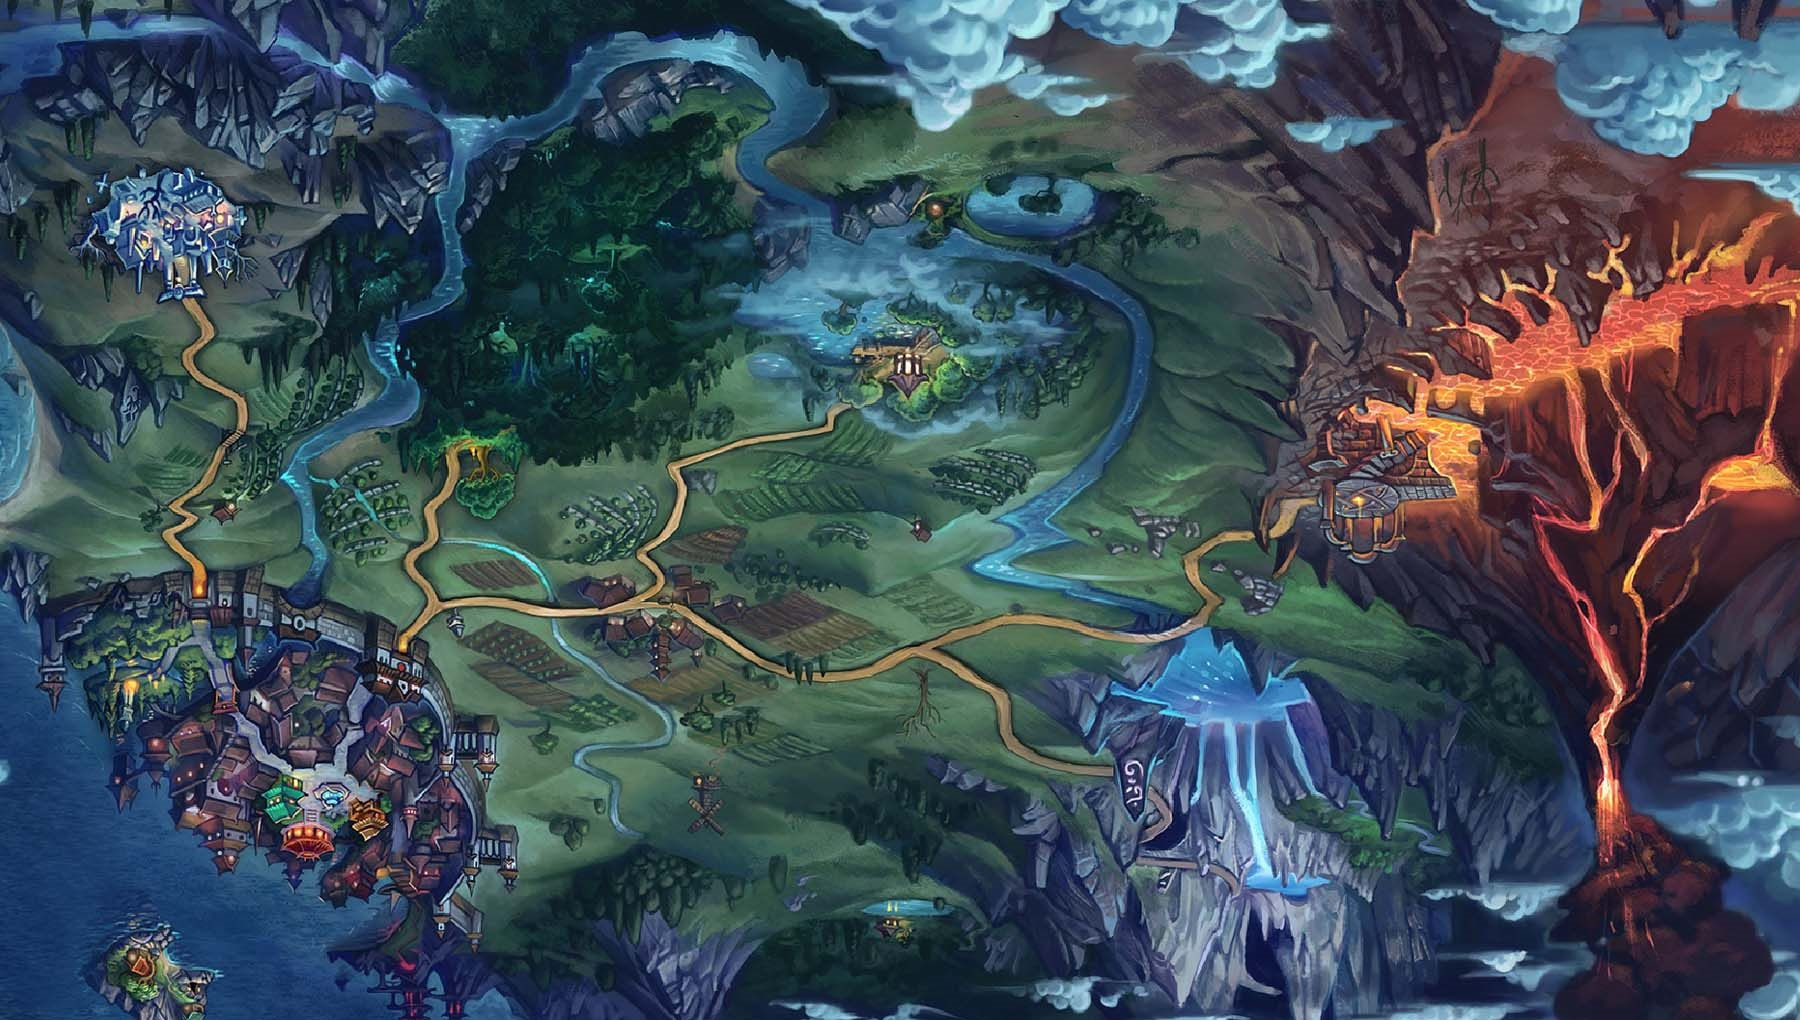
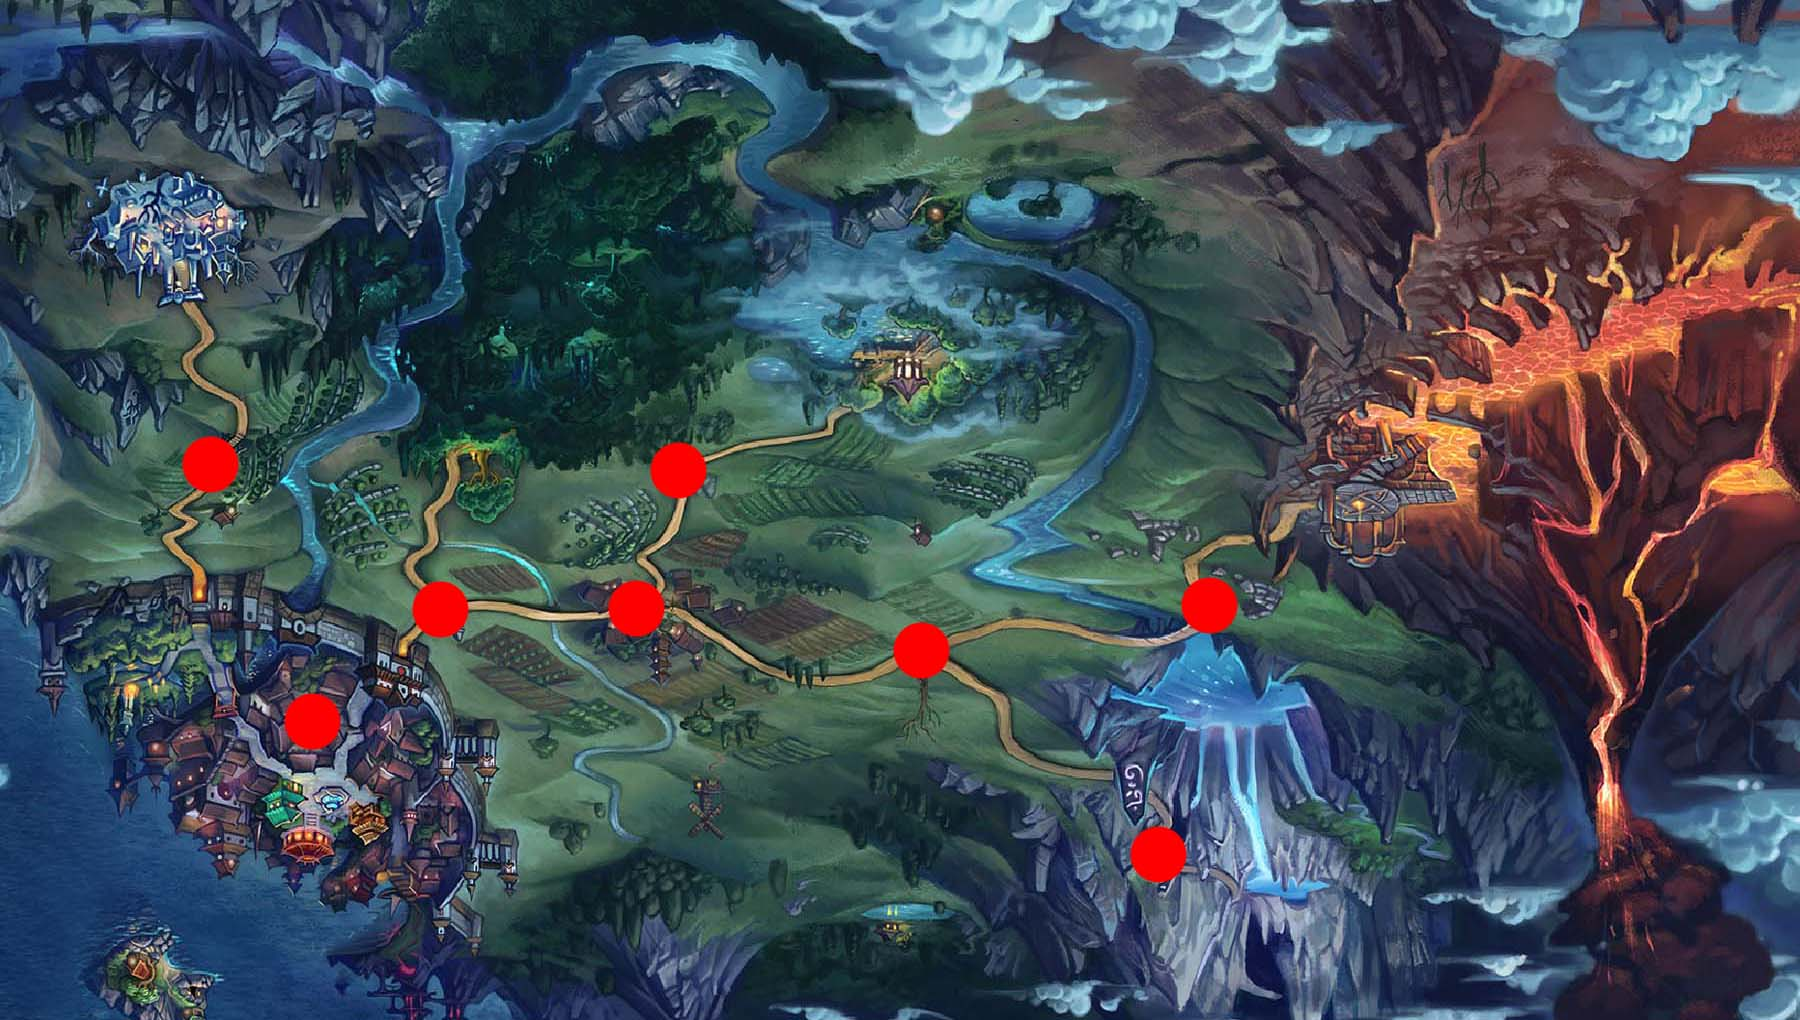
update

diff --git a/game.min.js b/game.min.js
@@ -3146,7 +3146,7 @@ ui_card_item_4:"res/menu/ui_card_item_4.png",ui_btn_green_card:"res/menu/ui_btn_
 ui_btn_green_main:"res/menu/ui_btn_green_main.png",ui_btn_green_main_select:"res/menu/ui_btn_green_main_select.png",ui_btn_cp_01:"res/menu/ui_btn_cp_01.png",ui_btn_cp_02:"res/menu/ui_btn_cp_02.png",ui_btn_cp_03:"res/menu/ui_btn_cp_03.png",ui_btn_cp_04:"res/menu/ui_btn_cp_04.png",font:"Hamston.ttf",effect_start:"res/effect/stars.png",effect_light:"res/effect/light.svg"},config={font_size_normal:60,font_size_small:40,font_size_tiny:30,font_size_tiny_small:15,scale_default:0.65,scale_zoom:0.85,scale_big:1,
 card_coin_common:1E3,card_coin_ancient:5E3,card_coin_legendary:15E3,card_common:1,card_ancient:2,card_legendary:4,size_width:0,size_height:0,font:"Hamston",z_index_30:30,z_index_20:20,z_index_10:10,scene_home:0,scene_get_cards:1,scene_multi_player:2,scene_campaign:3,sprite_defaul:"0",sprite_click:"1",popup_default:222},lb={choose_your_hero:"CHOOSE YOUR HERO",select:"Select",home:"HOME",get_cards:"GET CARDS!",multiplayer:"MULTIPLAYER",campaign:"CAMPAIGN",boosters:"BOOSTERS",shop:"SHOP",profile:"PROFILE",
 deck_edit:"DECK EDIT",leaderboard:"LEADERBOARD",level:"LEVEL",ok:"OK",card_common:"COMMON",card_ancient:"ANCIENT",card_legendary:"LEGENDARY",card_common_des:"GET 1 CARD \n AT LEAST \n 1 COMMON CARD",card_ancient_des:"GET 2 CARD \n AT LEAST \n 1 COMMON CARD",card_legendary_des:"GET 4 CARD \n AT LEAST \n 1 RATE OR EPIC CARD",share:"SHARE",continue:"CONTINUE",game_setting:"GAME MENU",sound_effect:"SOUND EFFECTS",music:"MUSIC",setting:"SETTING",connect:"CONNECT",infor:"INFOR",privacy_policy:"PRIVACY POLICY",
-term_of_use:"TERM OF USE",coming_soon:"COMING SOON",wallet_address:"WALLET ADDRESS",wallet_address_value:"000000000000000",coin_info:"BNB VALUE",coin_info_value:"14 BNB",logout:"LOGOUT",change:"CHANGE",pillace:"PILLACE"},champions=[];champions.push({src:res.cp_01,src_select:res.cp_01_s,name:"HUMAN",icon:res.ui_btn_cp_01});champions.push({src:res.cp_02,src_select:res.cp_02_s,name:"ELF",icon:res.ui_btn_cp_02});champions.push({src:res.cp_03,src_select:res.cp_03_s,name:"ORC",icon:res.ui_btn_cp_03});
+term_of_use:"TERM OF USE",coming_soon:"COMING SOON",wallet_address:"WALLET ADDRESS",wallet_address_value:"000000000000000",coin_info:"BNB VALUE",coin_info_value:"14 BNB",logout:"LOGOUT",fee:"FEE",pillace:"PILLACE"},champions=[];champions.push({src:res.cp_01,src_select:res.cp_01_s,name:"HUMAN",icon:res.ui_btn_cp_01});champions.push({src:res.cp_02,src_select:res.cp_02_s,name:"ELF",icon:res.ui_btn_cp_02});champions.push({src:res.cp_03,src_select:res.cp_03_s,name:"ORC",icon:res.ui_btn_cp_03});
 champions.push({src:res.cp_04,src_select:res.cp_04_s,name:"UNDEAD",icon:res.ui_btn_cp_04});var user={index:-1,positionX:0,positionY:0,coin:1E15,level:20,buyCoin:0,buyCard:0},g_resources=[],i;for(i in res)g_resources.push(res[i]);var unit={random:function(a,b){return Math.round(Math.random()*(b-a)+a)}},_MainLayout;var MainScene=cc.Scene.extend({onEnter:function(){this._super()},createPopup:function(){var a=new cc.Sprite(res.ui_popup);a.setPosition(cc.p(config.size_width/2,2*config.size_height));var b=new cc.LabelTTF(lb.game_setting,config.font);b.setAnchorPoint(cc.p(0.5,0));b.setFontSize(config.font_size_small);b.setPosition(cc.p(a._getWidth()/2,a._getHeight()-70));a.addChild(b);b=new ccui.Button;b.setAnchorPoint(cc.p(0.5,0));b.setPosition(cc.p(a._getWidth()-25,a._getHeight()-92));b.loadTextures(res.ui_btn_close);
 b.addClickEventListener(this.funcPopupCloseClick);a.addChild(b);var b=new cc.Sprite,c=new cc.LabelTTF.create(lb.music,config.font);c.setFontSize(config.font_size_tiny);c.setAnchorPoint(cc.p(0.5,-1));var d=new cc.LabelTTF.create(lb.sound_effect,config.font);d.setFontSize(config.font_size_tiny);d.setAnchorPoint(cc.p(0.5,-1));var e=this.createPopupSldier(a._getWidth()/2-50,a._getHeight()/2,this.funcPopupSliderAudio),f=this.createPopupSldier(a._getWidth()/2-50,a._getHeight()/2-100,this.funcPopupSliderMusic);
 d.setPosition(cc.p(e._getWidth()/2,0));c.setPosition(cc.p(f._getWidth()/2,0));e.addChild(d);f.addChild(c);b.addChild(f);b.addChild(e);var g=function(b){var c=parseInt(b.getName());for(i in s)s[i].loadTextures(res.ui_btn_brown,res.ui_btn_brown_select);b.loadTextures(res.ui_btn_orange_popup,res.ui_btn_orange_popup_select);a.removeChildByTag(config.popup_default);a.addChild(v[c])},c=new this.createPopupBtnMain(40,410,g,lb.setting,0),d=new this.createPopupBtn(40,410-1*(c._getHeight()+20),g,lb.connect,
@@ -3185,14 +3185,14 @@ funcMenuHomeClick:function(){var a=new HomeScene;cc.director.runScene(new cc.Tra
 a.setDirection(ccui.ScrollView.DIR_HORIZONTAL);for(var b=function(a){var b=parseInt(a.getName()),c=parseInt(a.getTag());b==config.sprite_defaul?(a.setName(config.sprite_click),a.setScale(config.scale_zoom),a.loadTextures(champions[c].src_select)):(a.setScale(config.scale_default),a.setName(config.sprite_defaul),a.loadTextures(champions[c].src))},c=0;c<user.buyCard;c++){var d=new ccui.Button,e=unit.random(0,3);d.setName(config.sprite_defaul);d.setTag(e);d.loadTextures(champions[e].src);d.addClickEventListener(b);
 d.setScale(config.scale_default);e=new cc.LabelTTF(champions[e].name,config.font);e.setName("NAME");e.setFontSize(config.font_size_normal);e.setPosition(cc.p(d._getWidth()/2,-50));d.addChild(e);a.addChild(d)}a.setPosition(cc.p(config.size_width/2,config.size_height/2));a.setAnchorPoint(cc.p(0.5,0.5));a.setContentSize(cc.size(config.size_width/4*user.buyCard,config.size_height));this.addChild(a);a=this.createButton(config.size_width/2,20,res.ui_btn_green_main,res.ui_btn_green_main_select,lb.continue,
 config.font_size_small,this.funcMenuContinueClick);this.addChild(a);return!0},createButton:function(a,b,c,d,e,f,g){var h=new ccui.Button;h.setAnchorPoint(cc.p(0.5,0));h.setPosition(cc.p(a,b));h.loadTextures(c,d);h.setTitleFontName(config.font);h.setTitleFontSize(f);h.setTitleText(e);h.addClickEventListener(g);return h},funcMenuContinueClick:function(){var a=new GetCardsScene;cc.director.runScene(new cc.TransitionFade(0.5,a))},funcMenuSharedClick:function(){cc.log("funcMenuSharedClick")}}),GetCardsActionScene=
-cc.Scene.extend({_layer:null,_INIT:!1,onEnter:function(){this._super();!1==this._INIT?(this._INIT=!0,this._layer=new GetCardsActionSceneLayout,this._layer.setColor(cc.color(255,32,32)),this.addChild(this._layer)):this._layer.updateData()}});var CampaignSceneLayout=cc.Layer.extend({ctor:function(){this._super();var a=new cc.Sprite(res.bg_10);a.setAnchorPoint(cc.p(0.5,0.5));a.setPosition(cc.p(config.size_width/2,config.size_height/2));this.addChild(a,0);a=[{x:171,y:221,name:"20/20"},{x:313,y:791,name:"50/20"},{x:483,y:485,name:"20/20"},{x:911,y:349,name:"20/20"},{x:1357,y:505,name:"20/20"}];for(i in a){var b=this.createFlag(a[i].x,a[i].y,a[i].name);this.addChild(b)}_popupChapaign=this.createPopup();this.addChild(_popupChapaign);return!0},
-createFlag:function(a,b,c){var d=new ccui.Button;d.setAnchorPoint(cc.p(0.5,0.5));d.setPosition(cc.p(a,b));d.loadTextures(res.ui_flag);d.addClickEventListener(this.funcPopupCampaignOpenClick);a=new cc.LabelTTF(c,config.font);a.setFontSize(config.font_size_tiny_small);a.setAnchorPoint(cc.p(0.5,0.5));a.setPosition(cc.p(50,15));d.addChild(a);return d},createPopup:function(){var a=new cc.Sprite(res.ui_popup);a.setPosition(cc.p(config.size_width/2,2*config.size_height));var b=new cc.LabelTTF(lb.campaign,
-config.font);b.setAnchorPoint(cc.p(0.5,0));b.setFontSize(config.font_size_small);b.setPosition(cc.p(a._getWidth()/2,a._getHeight()-70));a.addChild(b);b=new ccui.Button;b.setAnchorPoint(cc.p(0.5,0));b.setPosition(cc.p(a._getWidth()-25,a._getHeight()-92));b.loadTextures(res.ui_btn_close);b.addClickEventListener(this.funcPopupCampaignCloseClick);a.addChild(b);var b=new this.createPopupBtn(a._getWidth()/2-370,20,lb.change),c=new this.createPopupBtn(a._getWidth()/2+20,20,lb.pillace);a.addChild(b);a.addChild(c);
-b=new cc.Sprite(res.ui_popup_cham);b.setAnchorPoint(cc.p(0.5,0.5));b.setPosition(cc.p(a._getWidth()/2-250,a._getHeight()/2));c=new cc.Sprite(res.ui_popup_chest);c.setAnchorPoint(cc.p(0.5,0.5));c.setPosition(cc.p(a._getWidth()/2+180,a._getHeight()/2));a.addChild(b);a.addChild(c);return a},createPopupBtn:function(a,b,c){var d=new ccui.Button;d.setAnchorPoint(cc.p(0,0));d.setPosition(cc.p(a,b));d.loadTextures(res.ui_btn_brown,res.ui_btn_brown_select);d.setTitleFontName(config.font);d.setTitleFontSize(config.font_size_tiny);
-d.setTitleText(c);return d},funcPopupCampaignOpenClick:function(){_popupChapaign.runAction(cc.moveTo(1,cc.p(config.size_width/2,config.size_height/2)).easing(cc.easeElasticInOut(0.5)))},funcPopupCampaignCloseClick:function(){_popupChapaign.runAction(cc.moveTo(1,cc.p(config.size_width/2,2*config.size_height)).easing(cc.easeElasticInOut(0.5)))}}),CampaignScene=MainScene.extend({_layer:null,_INIT:!1,onEnter:function(){this._super(!0);-1==user.index&&(user.index=0);!1==this._INIT&&(this._INIT=!0,this._layer=
-new CampaignSceneLayout,_popup=this.createPopup(),this._layer.addChild(_popup,config.z_index_30),_menu=this.createMenu(config.scene_campaign),this._layer.addChild(_menu,config.z_index_10),_lbCoin=this.createCoinInfo(),this._layer.addChild(_lbCoin,config.z_index_10),_btnAccount=this.createAccount(),this._layer.addChild(_btnAccount,config.z_index_10),this.addChild(this._layer));this.funcUpdateData()},funcPopupOpenClick:function(){_popup.runAction(cc.moveTo(1,cc.p(config.size_width/2,config.size_height/
-2)).easing(cc.easeElasticInOut(0.5)))},funcPopupCloseClick:function(){_popup.runAction(cc.moveTo(1,cc.p(config.size_width/2,2*config.size_height)).easing(cc.easeElasticInOut(0.5)))},funcMenuHomeClick:function(){var a=new HomeScene;cc.director.runScene(new cc.TransitionFade(0.5,a))},funcMenuGetCardsClick:function(){var a=new GetCardsScene;cc.director.runScene(new cc.TransitionFade(0.5,a))},funcMenuCampaignClick:function(){},funcMenuMultiplayersClick:function(){var a=new MultiplayersScene;cc.director.runScene(new cc.TransitionFade(0.5,
-a))},funcUpdateData:function(){_lbCoin.setString(""+user.coin);_btnAccount.setTexture(champions[user.index].icon)}});var MultiplayersSceneLayout=cc.Layer.extend({ctor:function(){this._super();var a=new cc.Sprite(res.bg_4);a.setAnchorPoint(cc.p(0.5,0.5));a.setPosition(cc.p(config.size_width/2,config.size_height/2));this.addChild(a,0);a=new cc.LabelTTF.create(lb.coming_soon,config.font);a.setFontSize(config.font_size_normal);a.setPosition(cc.p(config.size_width/2,config.size_height/2));this.addChild(a);return!0}}),MultiplayersScene=MainScene.extend({_layer:null,_INIT:!1,onEnter:function(){this._super(!0);-1==user.index&&
+cc.Scene.extend({_layer:null,_INIT:!1,onEnter:function(){this._super();!1==this._INIT?(this._INIT=!0,this._layer=new GetCardsActionSceneLayout,this._layer.setColor(cc.color(255,32,32)),this.addChild(this._layer)):this._layer.updateData()}});var CampaignSceneLayout=cc.Layer.extend({ctor:function(){this._super();var a=new cc.Sprite(res.bg_10);a.setAnchorPoint(cc.p(0.5,0.5));a.setPosition(cc.p(config.size_width/2,config.size_height/2));this.addChild(a,0);a=[{x:171,y:221,name:"20/20"},{x:313,y:791,name:"50/20"},{x:483,y:485,name:"20/20"},{x:911,y:349,name:"20/20"},{x:1357,y:505,name:"20/20"},{x:205,y:461,name:"20/20"},{x:313,y:717,name:"20/20"},{x:437,y:613,name:"20/20"},{x:637,y:609,name:"20/20"},{x:673,y:469,name:"20/20"},{x:917,y:653,
+name:"20/20"},{x:1157,y:853,name:"20/20"},{x:1205,y:605,name:"20/20"}];for(i in a){var b=this.createFlag(a[i].x,a[i].y,a[i].name);this.addChild(b)}_popupChapaign=this.createPopup();this.addChild(_popupChapaign);return!0},createFlag:function(a,b,c){var d=new ccui.Button;d.setAnchorPoint(cc.p(0.5,0.5));d.setPosition(cc.p(a,b));d.loadTextures(res.ui_flag);d.addClickEventListener(this.funcPopupCampaignOpenClick);a=new cc.LabelTTF(c,config.font);a.setFontSize(config.font_size_tiny_small);a.setAnchorPoint(cc.p(0.5,
+0.5));a.setPosition(cc.p(50,15));d.addChild(a);return d},createPopup:function(){var a=new cc.Sprite(res.ui_popup);a.setPosition(cc.p(config.size_width/2,2*config.size_height));var b=new cc.LabelTTF(lb.campaign,config.font);b.setAnchorPoint(cc.p(0.5,0));b.setFontSize(config.font_size_small);b.setPosition(cc.p(a._getWidth()/2,a._getHeight()-70));a.addChild(b);b=new ccui.Button;b.setAnchorPoint(cc.p(0.5,0));b.setPosition(cc.p(a._getWidth()-25,a._getHeight()-92));b.loadTextures(res.ui_btn_close);b.addClickEventListener(this.funcPopupCampaignCloseClick);
+a.addChild(b);var b=new this.createPopupBtn(a._getWidth()/2-370,20,lb.fee),c=new this.createPopupBtn(a._getWidth()/2+20,20,lb.pillace);a.addChild(b);a.addChild(c);b=new cc.Sprite(res.ui_popup_cham);b.setAnchorPoint(cc.p(0.5,0.5));b.setPosition(cc.p(a._getWidth()/2-250,a._getHeight()/2));c=new cc.Sprite(res.ui_popup_chest);c.setAnchorPoint(cc.p(0.5,0.5));c.setPosition(cc.p(a._getWidth()/2+180,a._getHeight()/2));a.addChild(b);a.addChild(c);return a},createPopupBtn:function(a,b,c){var d=new ccui.Button;
+d.setAnchorPoint(cc.p(0,0));d.setPosition(cc.p(a,b));d.loadTextures(res.ui_btn_brown,res.ui_btn_brown_select);d.setTitleFontName(config.font);d.setTitleFontSize(config.font_size_tiny);d.setTitleText(c);return d},funcPopupCampaignOpenClick:function(){_popupChapaign.runAction(cc.moveTo(1,cc.p(config.size_width/2,config.size_height/2)).easing(cc.easeElasticInOut(0.5)))},funcPopupCampaignCloseClick:function(){_popupChapaign.runAction(cc.moveTo(1,cc.p(config.size_width/2,2*config.size_height)).easing(cc.easeElasticInOut(0.5)))}}),
+CampaignScene=MainScene.extend({_layer:null,_INIT:!1,onEnter:function(){this._super(!0);-1==user.index&&(user.index=0);!1==this._INIT&&(this._INIT=!0,this._layer=new CampaignSceneLayout,_popup=this.createPopup(),this._layer.addChild(_popup,config.z_index_30),_menu=this.createMenu(config.scene_campaign),this._layer.addChild(_menu,config.z_index_10),_lbCoin=this.createCoinInfo(),this._layer.addChild(_lbCoin,config.z_index_10),_btnAccount=this.createAccount(),this._layer.addChild(_btnAccount,config.z_index_10),
+this.addChild(this._layer));this.funcUpdateData()},funcPopupOpenClick:function(){_popup.runAction(cc.moveTo(1,cc.p(config.size_width/2,config.size_height/2)).easing(cc.easeElasticInOut(0.5)))},funcPopupCloseClick:function(){_popup.runAction(cc.moveTo(1,cc.p(config.size_width/2,2*config.size_height)).easing(cc.easeElasticInOut(0.5)))},funcMenuHomeClick:function(){var a=new HomeScene;cc.director.runScene(new cc.TransitionFade(0.5,a))},funcMenuGetCardsClick:function(){var a=new GetCardsScene;cc.director.runScene(new cc.TransitionFade(0.5,
+a))},funcMenuCampaignClick:function(){},funcMenuMultiplayersClick:function(){var a=new MultiplayersScene;cc.director.runScene(new cc.TransitionFade(0.5,a))},funcUpdateData:function(){_lbCoin.setString(""+user.coin);_btnAccount.setTexture(champions[user.index].icon)}});var MultiplayersSceneLayout=cc.Layer.extend({ctor:function(){this._super();var a=new cc.Sprite(res.bg_4);a.setAnchorPoint(cc.p(0.5,0.5));a.setPosition(cc.p(config.size_width/2,config.size_height/2));this.addChild(a,0);a=new cc.LabelTTF.create(lb.coming_soon,config.font);a.setFontSize(config.font_size_normal);a.setPosition(cc.p(config.size_width/2,config.size_height/2));this.addChild(a);return!0}}),MultiplayersScene=MainScene.extend({_layer:null,_INIT:!1,onEnter:function(){this._super(!0);-1==user.index&&
 (user.index=0);!1==this._INIT&&(this._INIT=!0,this._layer=new MultiplayersSceneLayout,_popup=this.createPopup(),this._layer.addChild(_popup,config.z_index_30),_menu=this.createMenu(config.scene_multi_player),this._layer.addChild(_menu,config.z_index_10),_lbCoin=this.createCoinInfo(),this._layer.addChild(_lbCoin,config.z_index_10),_btnAccount=this.createAccount(),this._layer.addChild(_btnAccount,config.z_index_10),this.addChild(this._layer));this.funcUpdateData()},funcPopupOpenClick:function(){_popup.runAction(cc.moveTo(1,
 cc.p(config.size_width/2,config.size_height/2)).easing(cc.easeElasticInOut(0.5)))},funcPopupCloseClick:function(){_popup.runAction(cc.moveTo(1,cc.p(config.size_width/2,2*config.size_height)).easing(cc.easeElasticInOut(0.5)))},funcMenuHomeClick:function(){var a=new HomeScene;cc.director.runScene(new cc.TransitionFade(0.5,a))},funcMenuGetCardsClick:function(){var a=new GetCardsScene;cc.director.runScene(new cc.TransitionFade(0.5,a))},funcMenuCampaignClick:function(){var a=new CampaignScene;cc.director.runScene(new cc.TransitionFade(0.5,
 a))},funcMenuMultiplayersClick:function(){},funcUpdateData:function(){_lbCoin.setString(""+user.coin);_btnAccount.setTexture(champions[user.index].icon)}});cc.game.onStart=function(){var a=cc.sys;!a.isNative&&document.getElementById("cocosLoading")&&document.body.removeChild(document.getElementById("cocosLoading"));cc.view.enableRetina(a.os===a.OS_IOS?!0:!1);a.isMobile&&a.browserType!==a.BROWSER_TYPE_BAIDU&&a.browserType!==a.BROWSER_TYPE_WECHAT&&cc.view.enableAutoFullScreen(!0);cc.view.adjustViewPort(!0);cc.view.setDesignResolutionSize(1800,1020,cc.ResolutionPolicy.SHOW_ALL);cc.view.resizeWithBrowserSize(!0);cc.LoaderScene.preload(g_resources,function(){config.size_width=
